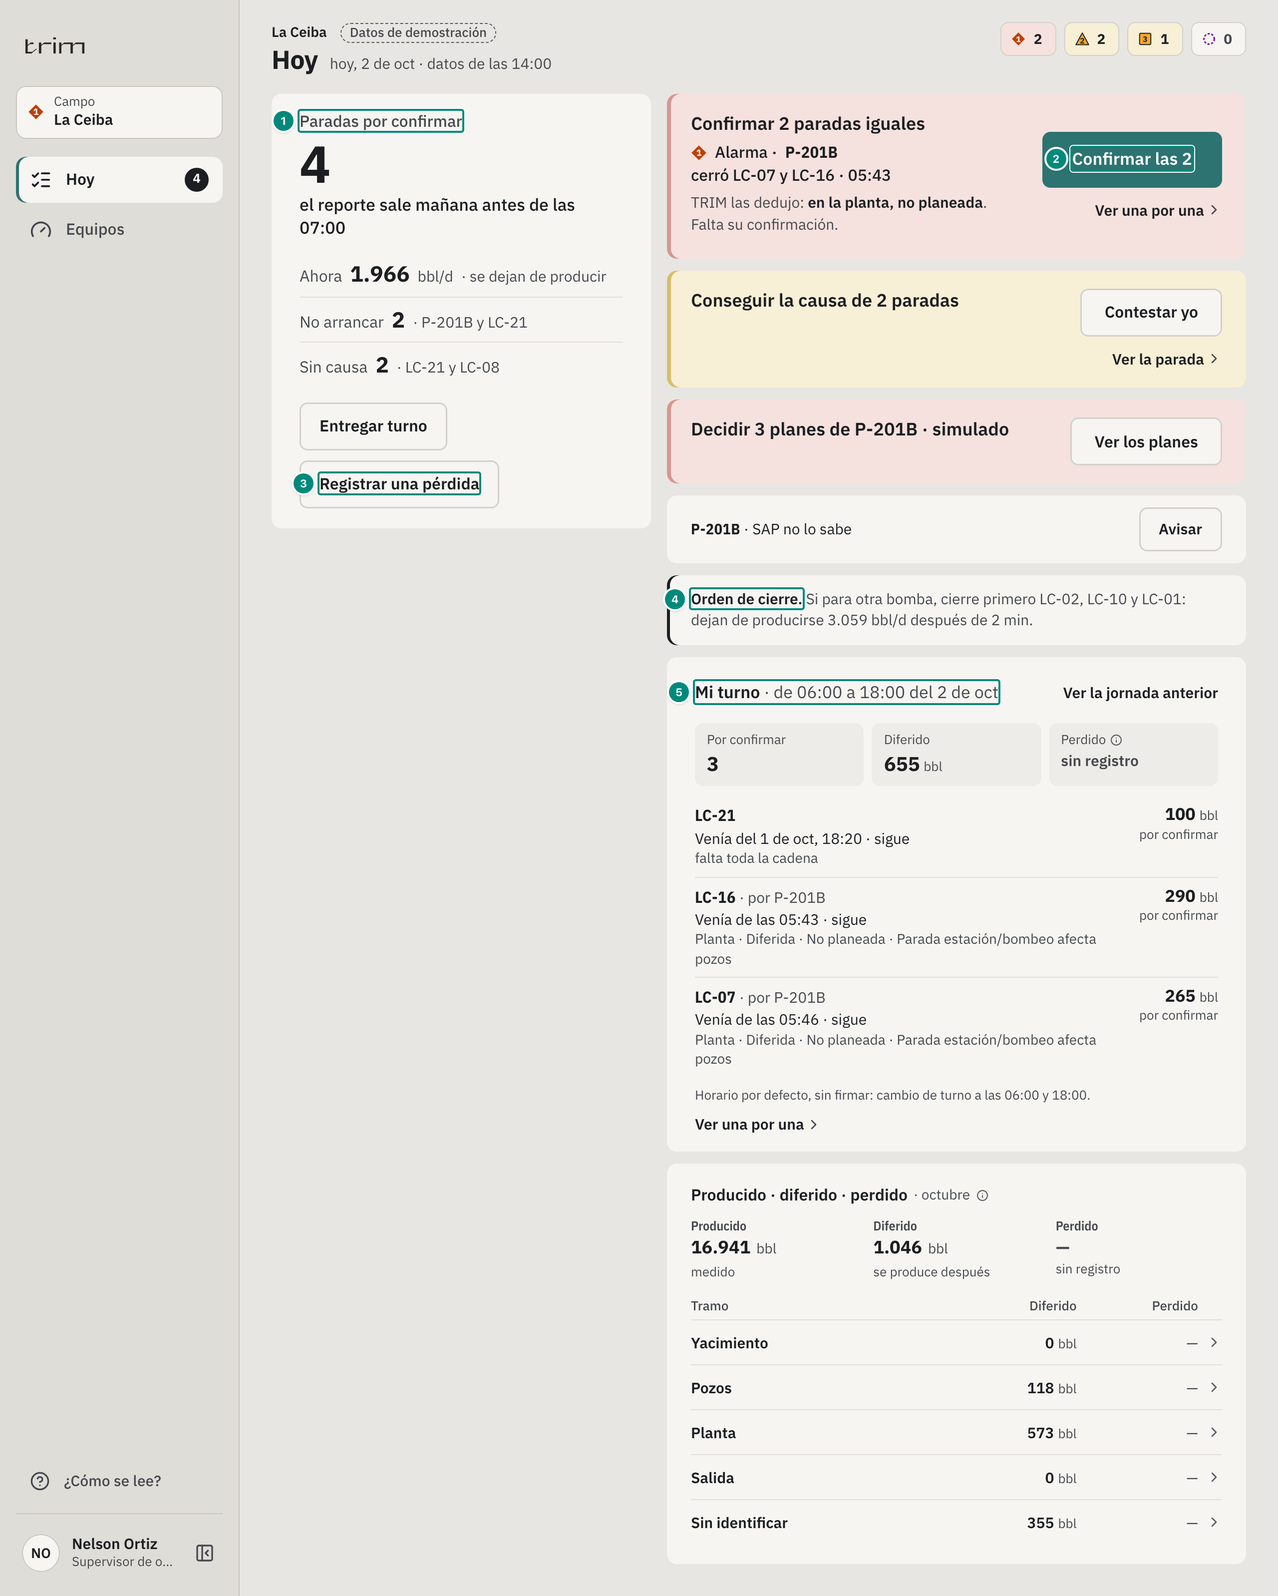
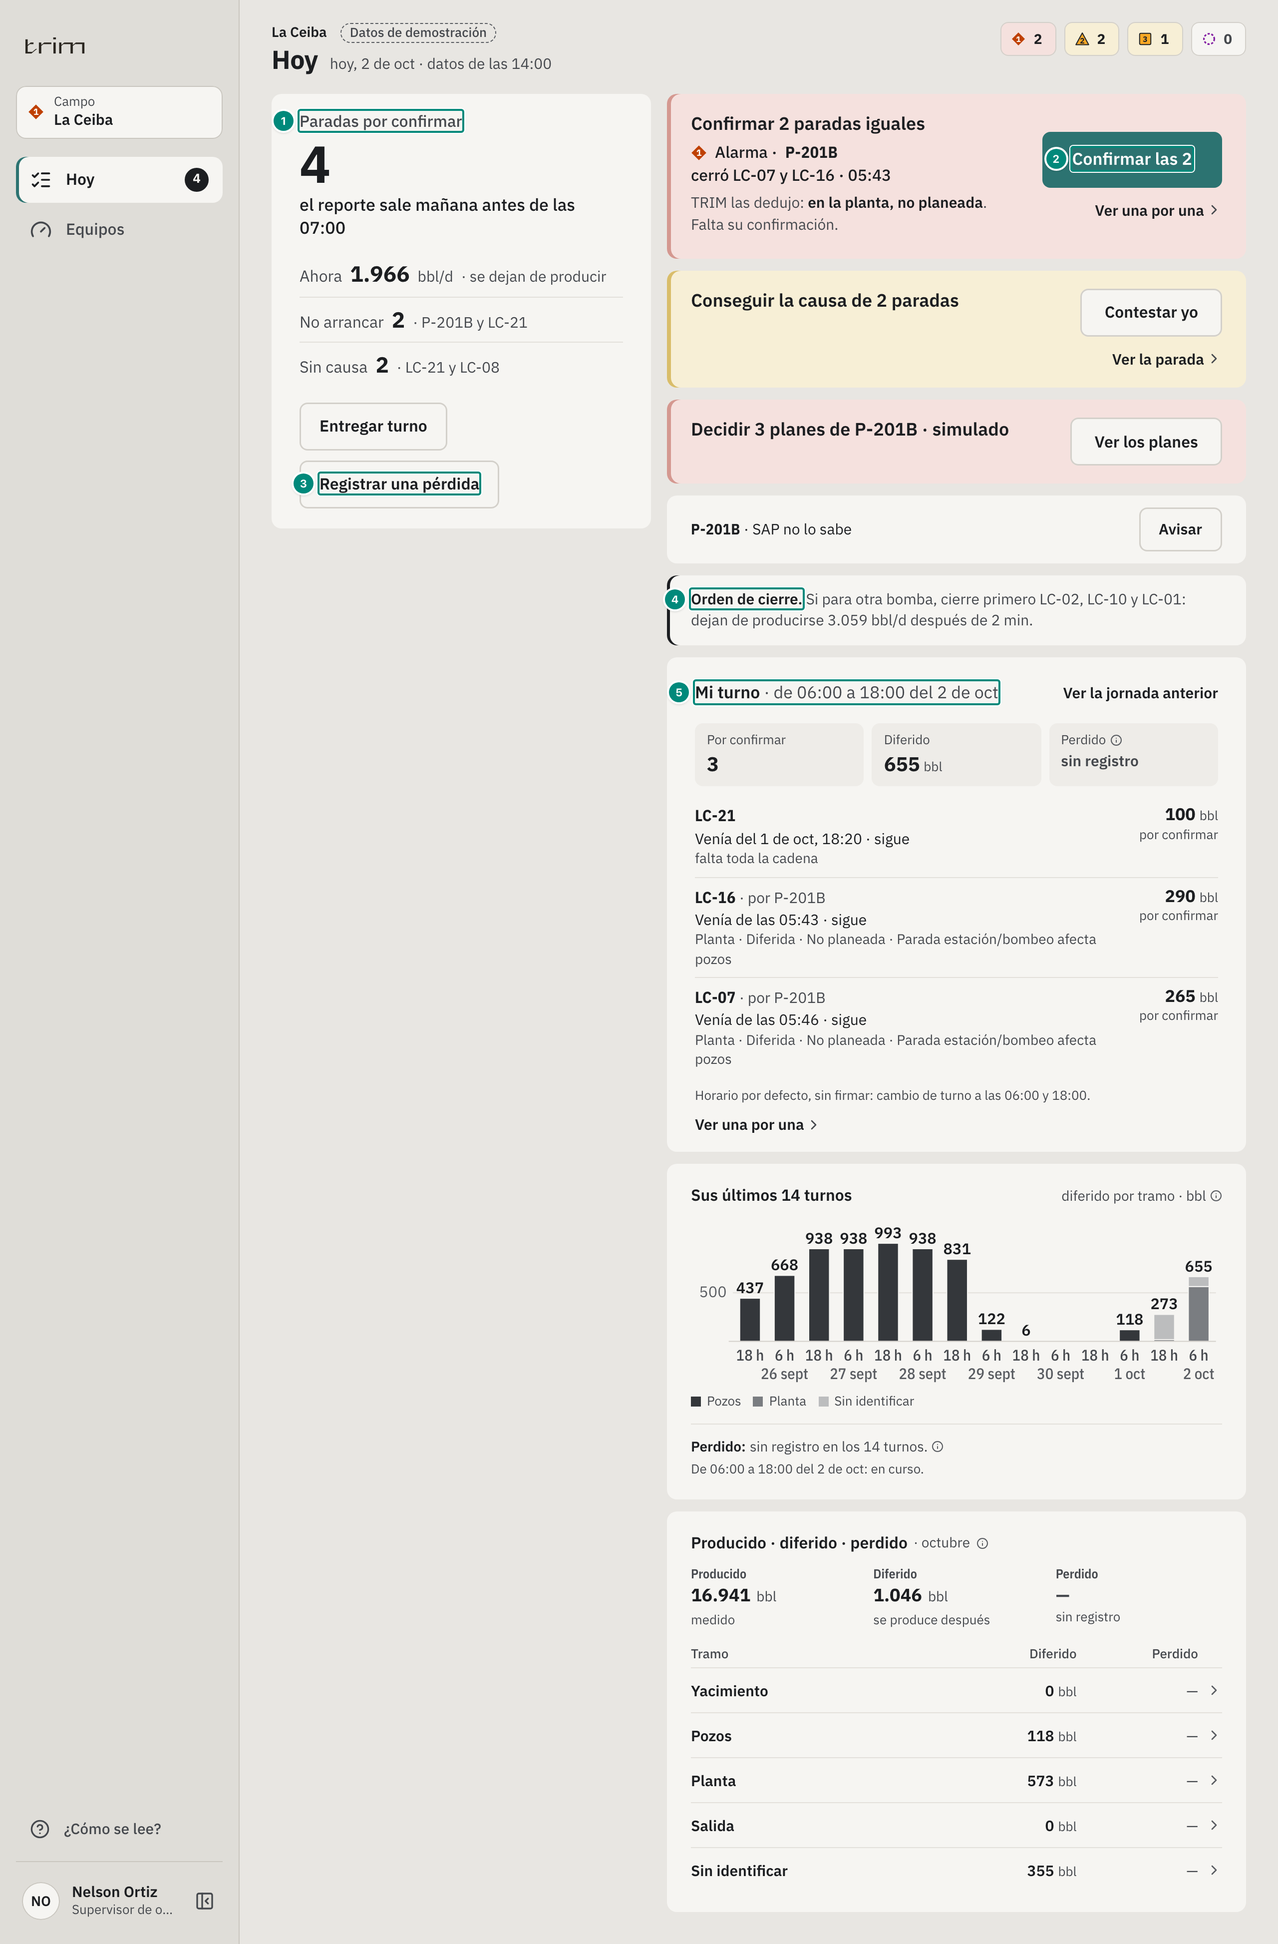
Pantallazos al día en el README, el documento técnico y la presentación
- README: «Cómo se ve» con 14 pantallazos de la v3 (uno o dos por rol, el historial y el teléfono); se borran los 12 de la v2 (Resumen, Bombas, WhatsApp, Entrega de turno…). La portada con «Anticipe la falla. Produzca más.» y el carril caliente sin WhatsApp (retirado en la v3).
- scripts/pantallazos.mjs: la lista v3, con captura de un elemento (selector), un toque antes (clic) y el teléfono (movil).
- Documento técnico: las 12 capturas v3 regeneradas, con las del historial (gerente y supervisor) y sus marcas en 6.9b; la marca de las zonas de tono, data-zona-tono.
- Presentación: diapositiva «13 meses, tramo por tramo» después del choke; el anexo con sus números corridos.

diff --git a/docs/experiencia-v3/presentacion-venta/project/slides/mes-a-mes.html b/docs/experiencia-v3/presentacion-venta/project/slides/mes-a-mes.html
@@ -1,0 +1,12 @@
+<section id="mes-a-mes" data-transition="fade" style="background:#e9e7e2;color:#1d2125;font-family:'IBM Plex Sans', Helvetica, Arial, sans-serif;padding:128px 128px 160px;display:flex;flex-direction:column;gap:16px">
+<p style="font-family:'IBM Plex Mono', Menlo, monospace;font-size:24px;letter-spacing:3px;color:#2c7371">LO QUE VA A VER · EL HISTORIAL</p>
+<h2 style="font-size:48px;font-weight:600;line-height:1.1">13 meses, tramo por tramo.</h2>
+<img src="/_blob/889925e64e483a68abc44867dee4edf9" alt="Diferido y perdido, mes a mes: 13 meses partidos por tramo del choke" style="position:absolute;left:128px;top:264px;width:1100px;height:620px;object-fit:contain;border-radius:12px;border:1px solid #c9c6bf">
+<div style="position:absolute;left:1276px;top:264px;width:516px;display:flex;flex-direction:column;gap:28px">
+<div style="display:flex;flex-direction:column;gap:6px;border-top:4px solid #1d2125;padding:16px 0 0 0"><h3 style="font-size:28px;font-weight:600;line-height:1.15">Cada mes, por tramo</h3><p style="font-size:24px;line-height:1.35;color:#3d4146">Pozos, planta, salida y lo que nadie ha explicado.</p></div>
+<div style="display:flex;flex-direction:column;gap:6px;border-top:4px solid #8fbf95;padding:16px 0 0 0"><h3 style="font-size:28px;font-weight:600;line-height:1.15">Verde o rojo pálido</h3><p style="font-size:24px;line-height:1.35;color:#3d4146">Bajo su máximo firmado, o lo pasó.</p></div>
+<div style="display:flex;flex-direction:column;gap:6px;border-top:4px solid #a94a14;padding:16px 0 0 0"><h3 style="font-size:28px;font-weight:600;line-height:1.15">El perdido, aparte</h3><p style="font-size:24px;line-height:1.35;color:#3d4146">Nunca sumado. Sin registro, lo dice.</p></div>
+<div style="display:flex;flex-direction:column;gap:6px;border-top:4px solid #2c7371;padding:16px 0 0 0"><h3 style="font-size:28px;font-weight:600;line-height:1.15">Para cada cargo</h3><p style="font-size:24px;line-height:1.35;color:#3d4146">Gerencia, producción, mantenimiento y confiabilidad, mes a mes; el supervisor, sus 14 turnos.</p></div>
+</div>
+<aside>Esta es la memoria del problema. Cada columna es un mes, partido por el tramo del choke donde se trabó el diferido: pozos, planta, salida y lo que todavía nadie explicó. El fondo dice si el mes cerrado quedó bajo su máximo firmado (verde pálido) o lo pasó (rojo pálido); en el demo, los 12 meses cerrados quedaron bajo su máximo. El perdido va aparte, nunca sumado: hoy dice «sin registro en los 13 meses», porque nadie ha registrado una pérdida, y no se inventa un cero. Octubre da 2.376 barriles, exactamente lo mismo que el balance del mes. Lo ven gerencia, producción, mantenimiento y confiabilidad; el supervisor ve sus últimos 14 turnos.</aside>
+</section>

diff --git a/docs/experiencia-v3/presentacion-venta/project/slides/anexo.html b/docs/experiencia-v3/presentacion-venta/project/slides/anexo.html
@@ -5,15 +5,15 @@
 <p style="font-size:32px;line-height:1.35;color:#c9cbcd">Muestre solo la del rol que tiene al frente.</p>
 </div>
 <div style="display:grid;grid-template-columns:1fr 1fr;gap:16px 64px;font-size:30px;line-height:1.4">
-<p>Gerente de activo <span style="color:#a9dad6">· diapositiva 15</span></p>
-<p>Jefe de mantenimiento <span style="color:#a9dad6">· 23</span></p>
-<p>Ingeniera de producción <span style="color:#a9dad6">· 17</span></p>
-<p>Confiabilidad y señales <span style="color:#a9dad6">· 25</span></p>
-<p>Supervisor <span style="color:#a9dad6">· 19</span></p>
-<p>Técnico <span style="color:#a9dad6">· 28</span></p>
-<p>Operador de campo <span style="color:#a9dad6">· 21</span></p>
-<p>Administrador <span style="color:#a9dad6">· 30</span></p>
-<p>Trazabilidad y resultados <span style="color:#a9dad6">· 32</span></p>
+<p>Gerente de activo <span style="color:#a9dad6">· diapositiva 16</span></p>
+<p>Jefe de mantenimiento <span style="color:#a9dad6">· 24</span></p>
+<p>Ingeniera de producción <span style="color:#a9dad6">· 18</span></p>
+<p>Confiabilidad y señales <span style="color:#a9dad6">· 26</span></p>
+<p>Supervisor <span style="color:#a9dad6">· 20</span></p>
+<p>Técnico <span style="color:#a9dad6">· 29</span></p>
+<p>Operador de campo <span style="color:#a9dad6">· 22</span></p>
+<p>Administrador <span style="color:#a9dad6">· 31</span></p>
+<p>Trazabilidad y resultados <span style="color:#a9dad6">· 33</span></p>
 </div>
 <aside>Aquí termina la presentación para quien decide. El anexo tiene, para cada rol, su propuesta y su pantalla real con los números explicados. No lo pase entero: vaya a la del rol que tiene al frente.</aside>
 </section>

diff --git a/README.md b/README.md
@@ -1,25 +1,28 @@
 # Trim · Hidrocarburos
 
-Front-end del producto que **baja los barriles diferidos de los equipos de alto impacto**
-de un campo de crudo: las bombas de reinyección de agua y las electrosumergibles.
+**Anticipe la falla. Produzca más.** Anticipamos la falla de sus equipos críticos para que produzca más, con
+inteligencia artificial: electrosumergibles, multifásicas y bombas de reinyección, conectadas a sus variables, y por
+qué se difiere y se pierde cada barril (el modelo choke). Este repositorio es el front-end del producto.
 
 > **¿Va a construir el backend?** Empiece por [`docs/backend/`](docs/backend/README.md): el documento técnico completo. Trae cada cifra de la aplicación con su fórmula, su ejemplo calculado y el texto que se muestra según su valor, y todas las pantallas anotadas. También la cadena de datos, la API, el modelo de datos en PostgreSQL ([`sql/esquema.sql`](docs/backend/sql/esquema.sql), validado con filas reales del demo) y el libro de Excel de las tablas y sus relaciones ([`modelo-de-datos.xlsx`](docs/backend/modelo-de-datos.xlsx)). El contrato endpoint por endpoint sigue en [`CONTRATO.md`](CONTRATO.md).
 
 ## Cómo se ve
 
-Doce pantallas con los datos del demo: los cinco campos y la operadora son de demostración, y
-cada pantalla lo dice arriba («Datos de demostración»). Cada rol ve solo las suyas (ver «Cada rol
-ve lo que su decisión exige»). Un clic en una imagen la abre en grande. Se regeneran desde la
-aplicación con `npm run pantallazos`.
+Catorce pantallas de la experiencia v3 con los datos del demo: los cinco campos y la operadora son de
+demostración, y cada pantalla lo dice arriba («Datos de demostración»). Los colores dicen **qué atacar**:
+rojo pálido lo frenado (parado o en alarma), amarillo pálido lo que está en riesgo y verde pálido solo los
+resultados que cumplen su meta; lo normal va en gris (ISA-101). Un clic en una imagen la abre en grande. Se
+regeneran desde la aplicación con `npm run pantallazos`.
 
 | | |
 |---|---|
-| [![Resumen del activo · gerente](docs/pantallas/resumen-gerente.png)](docs/pantallas/resumen-gerente.png)<br>**Resumen del activo · gerente.** Los barriles diferidos del mes con su rango («calculado»; el porqué, en el ⓘ), su valor en USD, el promedio diario y el cierre proyectado como barras contra la meta firmada, y qué equipos se llevan más. | [![Libro de diferidos](docs/pantallas/diferidos.png)](docs/pantallas/diferidos.png)<br>**Libro de diferidos.** Cuántos barriles se perdieron, por equipo y por tipo de causa, mes a mes contra el máximo firmado. «Dónde bajarlo» separa la parte vigilada, la que no tiene instrumento y la que nadie identificó. |
-| [![Bombas · confiabilidad](docs/pantallas/bombas-vigia.png)](docs/pantallas/bombas-vigia.png)<br>**Bombas · confiabilidad.** Una placa por bomba: cada variable contra su banda normal y su alarma, y cada parte (succión, sello, rodamientos…) con su estado y cuándo cruzaría su límite («cruza en 43 h»). | [![Ficha de una bomba parada](docs/pantallas/ficha-bomba-parada.png)](docs/pantallas/ficha-bomba-parada.png)<br>**Ficha de una bomba parada.** P-201B se detuvo sin primera alarma: «no arrancar hasta identificar qué se dañó». Trae el respaldo (no hay), los repuestos críticos en SAP, el botón para enviar el aviso a SAP y las señales fuera de banda. |
-| [![Entrega de turno · supervisor](docs/pantallas/turno.png)](docs/pantallas/turno.png)<br>**Entrega de turno · supervisor.** Lo que se está perdiendo ahora, lo que hay que identificar antes de entregar, lo que hay que vigilar y lo que TRIM mandó por WhatsApp en el turno: aviso, pregunta, recordatorio y escalamiento. | <a href="docs/pantallas/whatsapp-operario.png"><img src="docs/pantallas/whatsapp-operario.png" alt="WhatsApp del operario" width="230"></a><br>**WhatsApp del operario.** TRIM pregunta qué se dañó y ofrece las partes que más han fallado en ese equipo; el operario responde con un número. En este front es visual: el envío real lo hace el backend. |
-| [![Confiabilidad · ¿acierta el vigía?](docs/pantallas/confiabilidad.png)](docs/pantallas/confiabilidad.png)<br>**Confiabilidad · ¿acierta el vigía?.** Tiempo entre fallas por familia de equipo; lo que el vigía anunció y en qué quedó (acierto, falsa alarma, intervenida antes); lo que no anunció, y lo que sigue en seguimiento. | [![Mi trabajo · técnico](docs/pantallas/ordenes-sap-tecnico.png)](docs/pantallas/ordenes-sap-tecnico.png)<br>**Mi trabajo · técnico.** Lo parado, lo que falta identificar y las órdenes de SAP a su nombre. TRIM no crea órdenes: manda el aviso con su evidencia, las lee y avisa por WhatsApp cuando se liberan. |
-| [![Producción contra plan](docs/pantallas/produccion-cuadre.png)](docs/pantallas/produccion-cuadre.png)<br>**Producción contra plan.** Lo real (punto de medición oficial) contra el potencial y la meta firmada, día a día; el factor de asignación contra su banda, y el cuadre: real + diferido + inventario = potencial. | [![Planta](docs/pantallas/planta.png)](docs/pantallas/planta.png)<br>**Planta.** El esquema del campo. Lleno: el equipo captura datos; punteado: configurado, sin datos. Lo anormal lleva forma y color (ISA-101): aquí P-201B detenida deja la reinyección «sin flujo». |
-| [![Metas firmadas · gerente](docs/pantallas/metas-firmadas.png)](docs/pantallas/metas-firmadas.png)<br>**Metas firmadas · gerente.** Meta de producción y máximo de diferido por campo, desde una fecha; la meta global es la suma. Cada cambio se firma con motivo y queda en el historial. | [![Conectores · administrador](docs/pantallas/conectores.png)](docs/pantallas/conectores.png)<br>**Conectores · administrador.** SAP PM (avisos, órdenes, horas, repuestos y catálogos de daño) y WhatsApp Business (plantillas aprobadas). Se muestran conectados; en este front son visuales. |
+| [![La planta viva · gerente](docs/pantallas/planta-viva-gerente.png)](docs/pantallas/planta-viva-gerente.png)<br>**La planta viva · gerente.** Lo que se deja de producir ahora (2.650 bbl/d) y el equipo que más pesa; la producción del día contra su meta (verde pálido: la cumple) y el cierre del mes (amarillo pálido: va por debajo); el balance producido · diferido · perdido por tramo del choke. | [![Diferido y perdido, mes a mes](docs/pantallas/historial-gerente.png)](docs/pantallas/historial-gerente.png)<br>**Diferido y perdido, mes a mes.** 13 meses, cada uno partido por tramo (pozos, planta, salida, sin identificar). Fondo verde pálido: el mes cerrado quedó bajo su máximo firmado; rojo pálido: lo pasó. El perdido va aparte, nunca sumado («sin registro»). |
+| [![La ficha de P-201B · gerente](docs/pantallas/ficha-p201b-gerente.png)](docs/pantallas/ficha-p201b-gerente.png)<br>**La ficha de P-201B · gerente.** Un modal «tipo número»: Ahora (1.665 bbl/d, 10,1 h parada, 2 pozos cerrados, en rojo pálido) · Le ha costado · Por qué falla (sello 72 % / rodamientos 28 %) · Respaldo · Qué se está haciendo · Planes · SAP. | [![La traza de un tramo](docs/pantallas/traza-planta.png)](docs/pantallas/traza-planta.png)<br>**La traza de un tramo.** Un toque en «Planta» y salen sus causas: la cadena en un renglón («No planeada › Proceso / Facilidades › Parada estación/bombeo») y cada parada con su pozo, su hora y quién la confirmó. El perdido, aparte. |
+| [![La planta viva · producción](docs/pantallas/planta-viva-produccion.png)](docs/pantallas/planta-viva-produccion.png)<br>**La planta viva · producción.** Salen 9.394 de 11.857 bbl/d y qué tramo limita (los pozos); la tubería pozos → planta → salida; confirmar las paradas en lote; «Si falla hoy». | [![Hoy · supervisor](docs/pantallas/hoy-supervisor.png)](docs/pantallas/hoy-supervisor.png)<br>**Hoy · supervisor.** 4 paradas por confirmar; las tarjetas de lo que le toca (rojo pálido: P-201B en alarma; amarillo pálido: en riesgo); el orden de cierre si para otra bomba y «Mi turno» de 06:00 a 18:00. |
+| [![Sus últimos 14 turnos · supervisor](docs/pantallas/turnos-supervisor.png)](docs/pantallas/turnos-supervisor.png)<br>**Sus últimos 14 turnos · supervisor.** El diferido de cada jornada por tramo, y el perdido aparte. | [![Hoy · jefe de mantenimiento](docs/pantallas/hoy-jefe.png)](docs/pantallas/hoy-jefe.png)<br>**Hoy · jefe de mantenimiento.** Lo que avisa antes de fallar (K-101 ya pasó su límite), la espera (7,7 de 8,1 días por falla) y lo que no conviene tocar hoy. |
+| [![Equipos · confiabilidad](docs/pantallas/equipos-confiabilidad.png)](docs/pantallas/equipos-confiabilidad.png)<br>**Equipos · confiabilidad.** «Si falla hoy» 3.059 bbl/d, el vigía 3 de 3, los equipos sin instrumento y la flota ordenada por lo que costaría; lo parado o en alarma en rojo pálido, lo que avisa en amarillo pálido. | [![El detalle de un equipo parado](docs/pantallas/detalle-p201b.png)](docs/pantallas/detalle-p201b.png)<br>**El detalle de un equipo parado.** La cabeza en rojo pálido, sus señales con su límite y su tendencia de 12 días, el tren de agua y su historia de fallas. |
+| [![El vigía · MPP-301](docs/pantallas/diagnostico-mpp301.png)](docs/pantallas/diagnostico-mpp301.png)<br>**El vigía · MPP-301.** La salud por parte y la proyección: el filtro de entrada cruza su alarma en 5,2 días (4,7–5,7). En la tendencia, más allá de la alarma en rojo pálido y entre la banda y la alarma en amarillo pálido. | [![Configurar · administrador](docs/pantallas/configurar-admin.png)](docs/pantallas/configurar-admin.png)<br>**Configurar · administrador.** 3 de 6 pasos listos para firmar el campo, el que sigue y los otros campos con su avance. |
+| <a href="docs/pantallas/operador-telefono.png"><img src="docs/pantallas/operador-telefono.png" alt="Operador, en el celular" width="230"></a><br>**Operador, en el celular.** Una pregunta a la vez («¿Qué parte se dañó?») con lo que más le ha fallado a esa bomba; un toque y queda la causa. | <a href="docs/pantallas/tecnico-telefono.png"><img src="docs/pantallas/tecnico-telefono.png" alt="Técnico, en el celular" width="230"></a><br>**Técnico, en el celular.** Lo que le toca hoy, en orden; qué se dañó con un toque y la orden de SAP cerrada desde el teléfono. |
 
 ## Una sola promesa
 
@@ -75,24 +78,21 @@ Todo lo que se muestra sale de un equipo: el **estado de cada pozo** de su contr
    - **Accesos, del gerente** (`usuarios:administrar`, `entities/usuarios.ts`): invita, cambia
      rol o campos y suspende; nadie se borra y cada cambio queda con su motivo. Siempre queda
      al menos un gerente con acceso.
-2. **La respuesta del operario** (`pages/Causa.tsx`, «Identificar», o por WhatsApp en el hilo
-   de la parada) cuando ninguna señal explica una parada. Queda marcada como declarada, con el
+2. **La respuesta del operario** (su Hoy, «Pregunta 1 de 4», o «Identificar» en `pages/Causa.tsx`)
+   cuando ninguna señal explica una parada. Queda marcada como declarada, con el
    canal por el que llegó; la primera respuesta gana. Regla de operación: el equipo no se
    arranca hasta que se identifique el daño; TRIM no escribe en el PLC y, si arranca antes,
    registra la no conformidad.
 
 La asignación oficial que se sube en Producción no entra al libro: es un cotejo.
 
-## El carril caliente: WhatsApp y SAP
+## El carril caliente: la pregunta y SAP
 
-- **WhatsApp** (`entities/mensajes.ts`): TRIM avisa a quien tiene que actuar con reglas fijas
-  del producto. Parada de alto impacto, al supervisor y al operador. «¿Qué se dañó?», al
-  operador, con hasta tres causas sugeridas y su porqué; recordatorio a los 30 min y al
-  supervisor a las 2 h. Cuando el vigía anticipa la falla de una parte, a confiabilidad y al
-  jefe de mantenimiento, con la ventana en que la espera. Orden liberada en SAP, al técnico. Cada
-  mensaje dice solo lo que se sabía a su hora. Turno muestra lo enviado; en Identificar se abre
-  el chat de quien recibió la pregunta, como lo ve en su teléfono, y desde ahí se responde en
-  dos toques: la parte y lo que vio.
+- **Dentro de la aplicación, no por WhatsApp** (experiencia v3): el aviso por WhatsApp se retiró
+  (`docs/experiencia-v3/whatsapp.md`; en el contrato queda RETIRADO, al lado de la v1). Lo que tenía
+  valor vive en la app: la pregunta «¿Qué se dañó?» le llega al operador en su Hoy, una a la vez y con
+  las partes que más le han fallado a ese equipo, y se contesta con un toque; el vigía le avisa a
+  confiabilidad y al jefe de mantenimiento en su Hoy, con la ventana en que espera la falla.
 - **Catálogo de daños** (`entities/catalogo.ts`): por clase de equipo, parte → modo de falla →
   mecanismo → causa raíz (ISO 14224 B.6, B.2, B.3), con su lugar en los catálogos de SAP PM.
   Quien abrió el equipo dice parte y modo; confiabilidad completa mecanismo y causa raíz. Un

diff --git a/docs/backend/06-pantallas-v3.md b/docs/backend/06-pantallas-v3.md
@@ -162,6 +162,21 @@ Pedido del dueño (28-oct): «el historial de diferidos y pérdidas para los car
 - El fondo de cada mes **cerrado**: rojo pálido si pasó su máximo firmado (`sobre: true`) y verde pálido si no (`false`). El mes en curso no se juzga. Lo decide el motor (`src/entities/historial.ts`); la pantalla lo pinta (`src/widgets/resultados/Historial.tsx`, con `Columnas` del kit: hasta 5 partes en grises de dato y el fondo por período).
 - Mes a mes, en miles de barriles («47,6»); por turno, en barriles.
 
+![El historial del gerente, mes a mes](img/v3-historial-gerente.png)
+
+| # | Lo que se ve |
+|---|---|
+| 1 | Octubre, en curso: 2.376 bbl (2,4 mil), el mismo del balance del mes; no se juzga contra su máximo (sin fondo) |
+| 2 | Un mes cerrado bajo su máximo firmado: fondo verde pálido (`sobre: false`). Uno que lo pasa iría en rojo pálido |
+| 3 | El perdido, aparte: «sin registro en los 13 meses», sin dibujar ceros |
+
+![Los últimos 14 turnos del supervisor](img/v3-historial-supervisor.png)
+
+| # | Lo que se ve |
+|---|---|
+| 1 | Cada jornada de La Ceiba (06:00 y 18:00), con su diferido por tramo; el eje dice la hora de inicio («18 h») y el día |
+| 2 | El perdido de las 14 jornadas, aparte |
+
 ## 6.10 La propuesta de valor en el producto
 
 Con **«¿Cómo se lee?»** encendido, arriba de cada pantalla va la propuesta de valor (`src/shared/brand/Propuesta.tsx`): «Anticipamos la falla de sus equipos críticos para que produzca más, con inteligencia artificial» y su segunda línea. Apagado, nada: la pantalla de trabajo no suma texto. Qué es hoy esa inteligencia artificial: capítulo 1, nota técnica.
